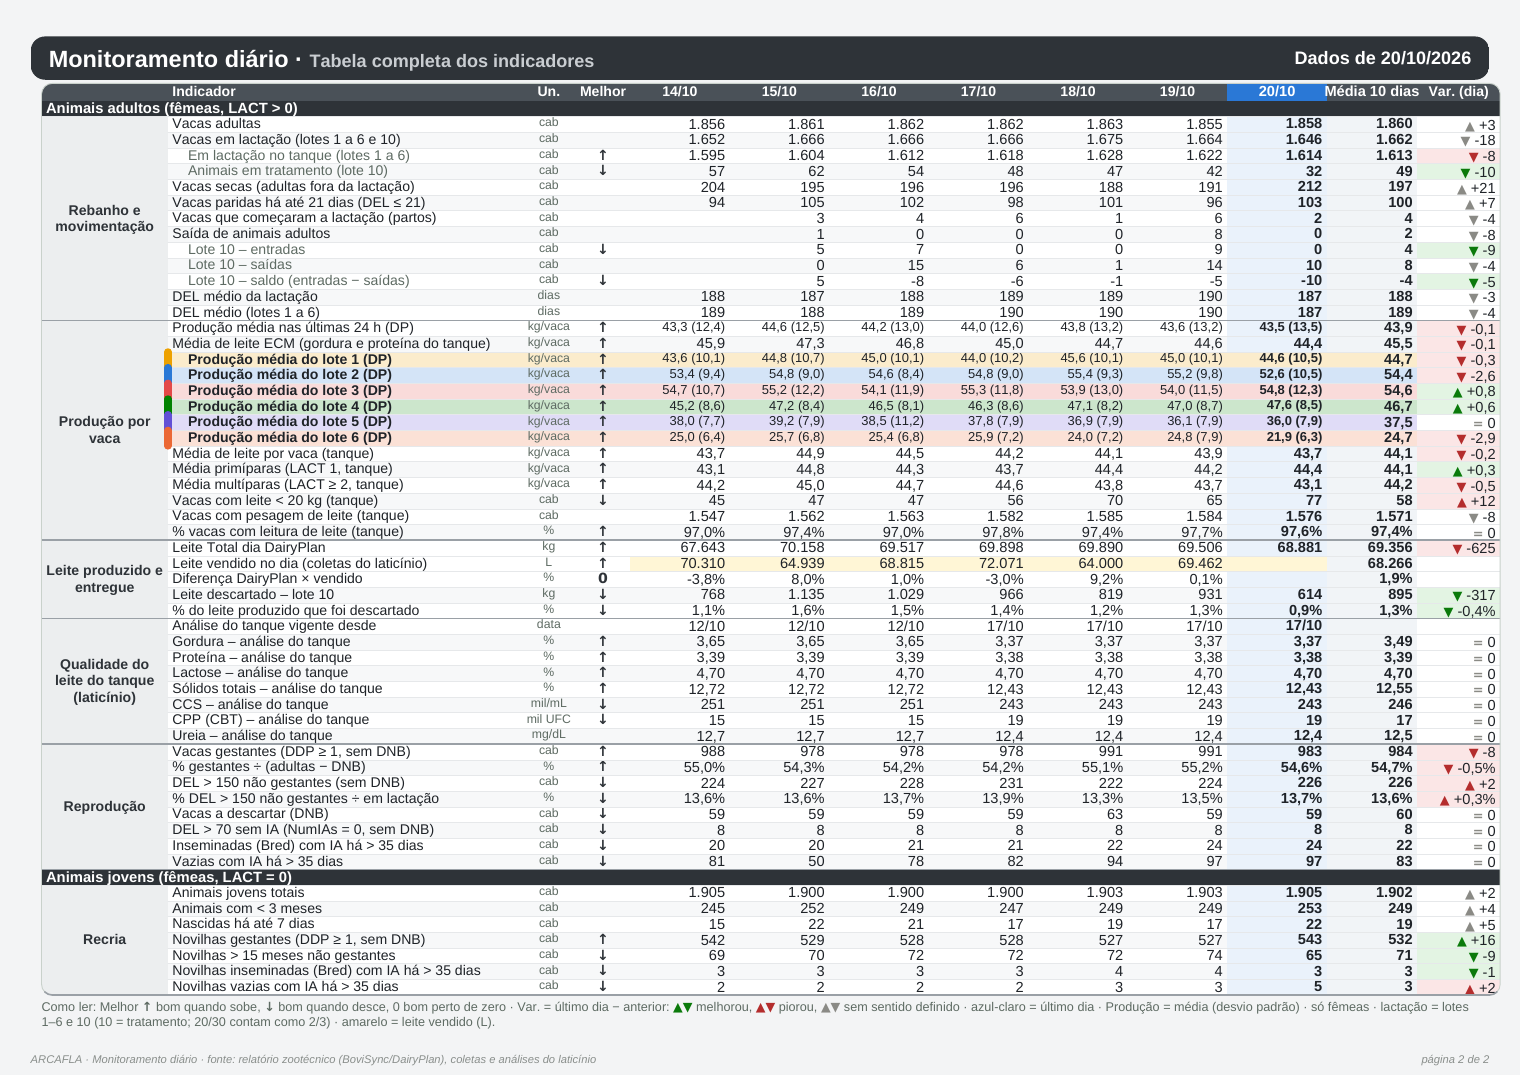
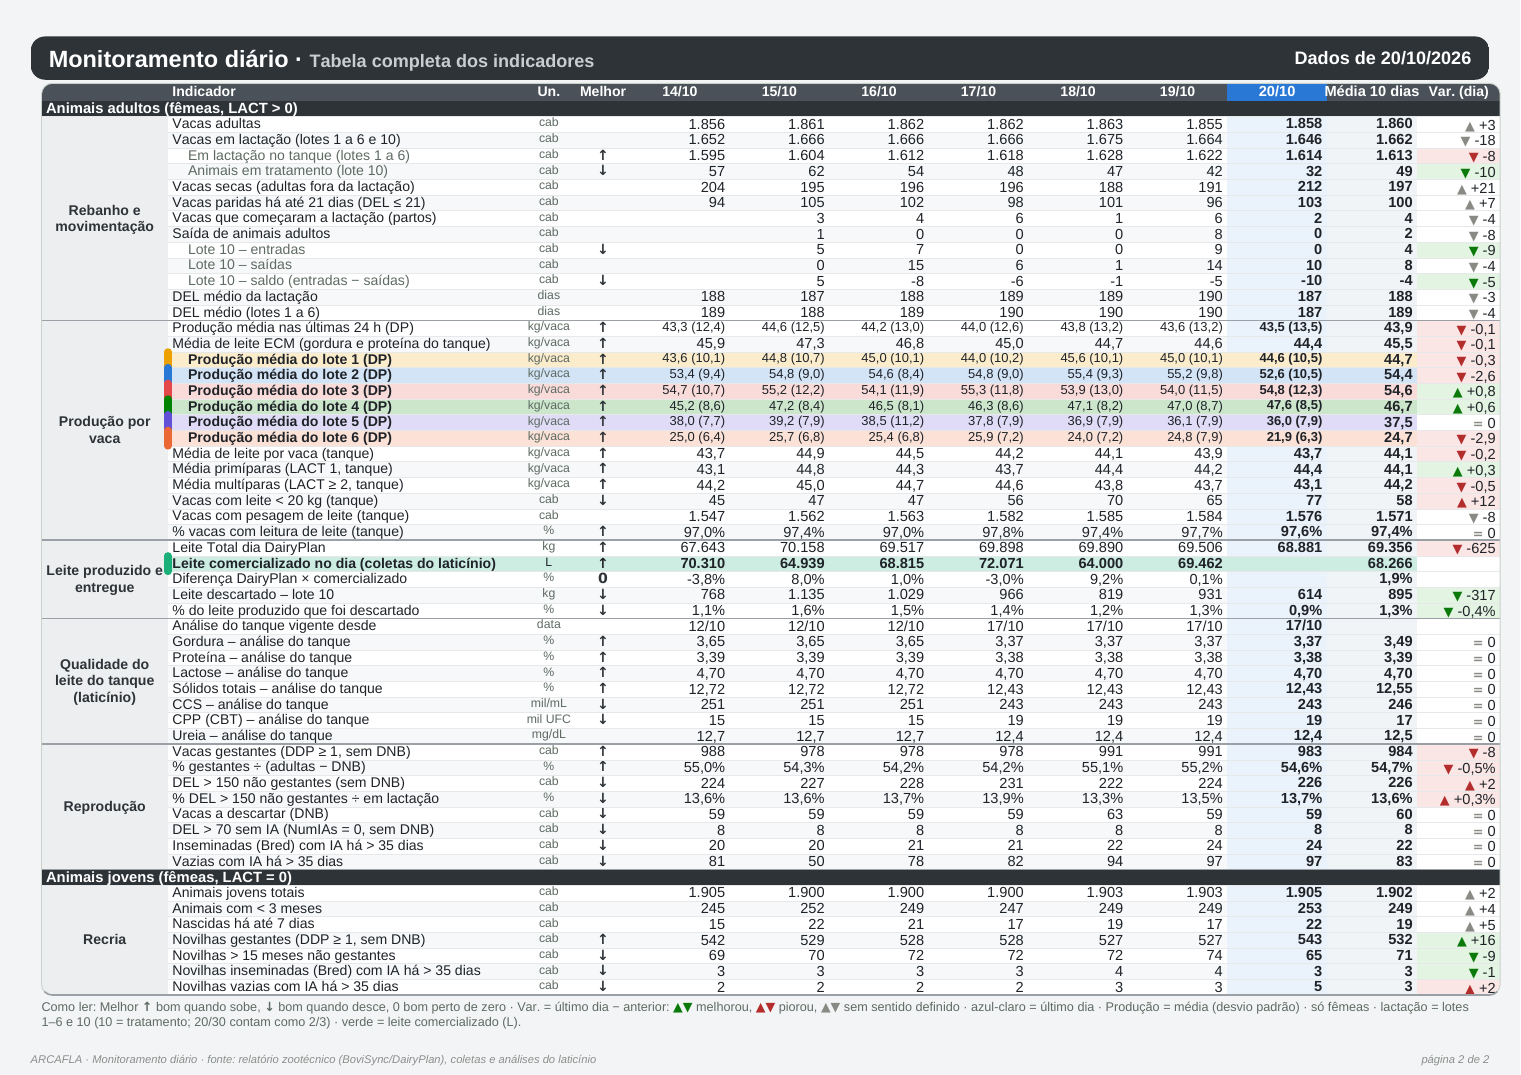
"Vendido" passa a "comercializado"; linha do leite comercializado em destaque na página 2
Claude-Session: https://claude.ai/code/session_01E6SmznsG4fwjxZt5rHRDBH

Changed region(s): [[0.0927, 0.4912, 0.927, 0.5526]]

diff --git a/scripts/monitor_pdf.py b/scripts/monitor_pdf.py
@@ -6,7 +6,7 @@ monitoramento/Monitoramento_Diario_ARCAFLA_AAAA-MM-DD.pdf (data do último dia).
 Página 1 – painel visual:
   cabeçalho; 6 cartões de destaque (valor do dia, seta de melhora/piora, média e minigráfico);
   gráficos: produção por vaca e ECM nos dias exibidos, produção por lote (média e desvio padrão),
-  leite DairyPlan × vendido, vacas com leite < 20 kg, % de gestantes e vazias/não gestantes;
+  leite DairyPlan × comercializado, vacas com leite < 20 kg, % de gestantes e vazias/não gestantes;
   quadro "Atenção hoje" com os indicadores que mais pioraram.
 Página 2 – tabela completa por blocos, coluna "Melhor" (↑/↓/0), variação com seta colorida e
   legenda "Como ler".
@@ -454,7 +454,7 @@ def v_ult(rot, nf):
 
 
 dpl = itens.get("Leite Total dia DairyPlan")
-vdd = itens.get("Leite vendido no dia (coletas do laticínio)")
+vdd = itens.get("Leite comercializado no dia (coletas do laticínio)")
 kv = next((i for i in range(ND - 1, -1, -1) if vdd and vdd["vals"][i] not in (None, "")), None)
 dif_txt = (("", f'{fmt(dpl["vals"][kv], "#,##0")} kg × {fmt(vdd["vals"][kv], "#,##0")} L')
            if kv is not None else ("aguardando coletas", ""))
@@ -465,7 +465,7 @@ cards = [
            ("no tanque:", v_ult("Em lactação no tanque (lotes 1 a 6)", "0")), CW - 7, CH - 2),
     cartao("Produção 24 h (kg/vaca)", "Produção média nas últimas 24 h (DP)",
            ("ECM:", v_ult("Média de leite ECM (gordura e proteína do tanque)", "0.0") + " kg"), CW - 7, CH - 2),
-    cartao("DairyPlan × leite vendido", "Diferença DairyPlan × vendido", dif_txt, CW - 7, CH - 2),
+    cartao("DairyPlan × comercializado", "Diferença DairyPlan × comercializado", dif_txt, CW - 7, CH - 2),
     cartao("Gestantes (sem DNB)", "% gestantes ÷ (adultas − DNB)",
            ("vacas gestantes:", v_ult("Vacas gestantes (DDP ≥ 1, sem DNB)", "0")), CW - 7, CH - 2),
     cartao("Em tratamento (lote 10)", "Animais em tratamento (lote 10)",
@@ -505,14 +505,14 @@ g_lote = caixa(f"Produção por lote em {ultimo:%d/%m}",
                G2W)
 
 G3W = LARG * 0.22 - 6      # gráficos menores da 2ª fileira
-GLW = LARG * 0.34 - 6      # leite DairyPlan × vendido, mais largo (dois conjuntos de valores)
+GLW = LARG * 0.34 - 6      # leite DairyPlan × comercializado, mais largo (dois conjuntos de valores)
 GH2 = 134
-dp_s, vd_s = serie("Leite Total dia DairyPlan"), serie("Leite vendido no dia (coletas do laticínio)")
+dp_s, vd_s = serie("Leite Total dia DairyPlan"), serie("Leite comercializado no dia (coletas do laticínio)")
 dp_s, vd_s = [[v / 1000 if v is not None else None for v in x] for x in (dp_s, vd_s)]  # em mil
-dif = itens.get("Diferença DairyPlan × vendido")
+dif = itens.get("Diferença DairyPlan × comercializado")
 dif_med = fmt(dif["media"], dif["mfmt"]) if dif and dif["media"] not in (None, "") else "–"
-g_leite = caixa("Leite DairyPlan × vendido",
-                legenda_series([("DairyPlan (mil kg)", S1), ("Vendido (mil L)", S3)]) + f" · dif. méd. <b>{dif_med}</b>",
+g_leite = caixa("Leite DairyPlan × comercializado",
+                legenda_series([("DairyPlan (mil kg)", S1), ("Comercializado (mil L)", S3)]) + f" · dif. méd. <b>{dif_med}</b>",
                 grafico_linhas([("dp", dp_s, S1), ("vd", vd_s, S3)], GLW - 10, GH2, "0.0",
                                area="todas", valores=True,
                                faixa=("dif.", [fmt(v, "+0.0%;-0.0%;0.0%", sinal=True) if isinstance(v, (int, float))
@@ -654,6 +654,10 @@ for l in linhas:
         estilo += [("LINEBEFORE", (1, i), (1, i), 4, c_l), ("TEXTCOLOR", (1, i), (1, i), TINTA),
                    ("FONT", (1, i), (1, i), "LibB", FS),
                    ("BACKGROUND", (1, i), (CMED, i), clarear(c_l))]  # linha no tom claro da cor do lote
+    if l["rot"].startswith("Leite comercializado"):  # destaque: verde do gráfico DairyPlan × comercializado
+        estilo += [("LINEBEFORE", (1, i), (1, i), 4, S3), ("BACKGROUND", (1, i), (CMED, i), clarear(S3, 0.78)),
+                   ("FONT", (1, i), (1, i), "LibB", FS), ("TEXTCOLOR", (1, i), (CMED, i), TINTA),
+                   ("FONT", (CDIA0, i), (CMED, i), "LibB", FSN)]
     for k, v in enumerate(l["vals"]):
         if isinstance(v, str):
             estilo.append(("FONTSIZE", (CDIA0 + k, i), (CDIA0 + k, i), FSN - 0.9))
@@ -675,7 +679,7 @@ legenda = Paragraph(
     "<b>0</b> bom perto de zero · Var. = último dia − anterior: <font name='Sym' color='#0B7A0B'>▲▼</font> melhorou, "
     "<font name='Sym' color='#B42D2D'>▲▼</font> piorou, <font name='Sym' color='#8A8A85'>▲▼</font> sem sentido "
     "definido · azul-claro = último dia · Produção = média (desvio padrão) · só fêmeas · lactação = lotes 1–6 e 10 "
-    "(10 = tratamento; 20/30 contam como 2/3) · amarelo = leite vendido (L).", st_leg)
+    "(10 = tratamento; 20/30 contam como 2/3) · verde = leite comercializado (L).", st_leg)
 
 
 # ---------------------------------------------------------------- cabeçalhos e montagem

diff --git a/scripts/monitor_diario.py b/scripts/monitor_diario.py
@@ -441,8 +441,8 @@ GRUPOS = [
         ("% vacas com leitura de leite (tanque)", "%", razao(cont(*COM_LEITE), cont(*TANQUE)), P, "↑"),
         (SUB, "Leite produzido e entregue"),
         ("Leite Total dia DairyPlan", "kg", soma("Leite", *COM_LEITE), "#,##0", "↑"),
-        ("Leite vendido no dia (coletas do laticínio)", "L", vendido_dia, "#,##0", "↑"),
-        ("Diferença DairyPlan × vendido", "%", dif_vendido, "+0.0%;-0.0%;0.0%", "0"),
+        ("Leite comercializado no dia (coletas do laticínio)", "L", vendido_dia, "#,##0", "↑"),
+        ("Diferença DairyPlan × comercializado", "%", dif_vendido, "+0.0%;-0.0%;0.0%", "0"),
         ("Leite descartado – lote 10", "kg", soma("Leite", *DESCARTE), "#,##0", "↓"),
         ("% do leite produzido que foi descartado", "%",
          razao(soma("Leite", *DESCARTE),
@@ -647,11 +647,11 @@ notas = [
     ("Leite ECM", "Produção média nas últimas 24 h × (0,327 + 0,1295 × gordura % + 0,0765 × proteína %), "
                   "com gordura e proteína da análise do tanque (Sjaunja et al., 1990; fatores na aba "
                   "Parâmetros)."),
-    ("Leite vendido", "Valor de entrada (azul/amarelo), em litros, lido de dados/leite_vendido.json. "
+    ("Leite comercializado", "Valor de entrada (azul/amarelo), em litros, lido de dados/leite_vendido.json. "
                       "Vem do \"Demonstrativo das Coletas de Leite\" (scripts/le_leite_vendido.py): soma "
                       "do Volume de todas as coletas com a mesma Data Coleta."),
-    ("Diferença DairyPlan × vendido", "(Leite Total dia DairyPlan − leite vendido) ÷ leite vendido. "
-                                      "Negativo = DairyPlan abaixo do vendido. O DairyPlan está em kg e o "
+    ("Diferença DairyPlan × comercializado", "(Leite Total dia DairyPlan − leite comercializado) ÷ leite comercializado. "
+                                      "Negativo = DairyPlan abaixo do comercializado. O DairyPlan está em kg e o "
                                       "laticínio em litros; não há conversão."),
     ("DNB", "StatRepro = DNB ou Dry DNB. Ficam fora de todos os indicadores de reprodução "
             "(só aparecem na própria contagem de DNB)."),
@@ -685,10 +685,10 @@ notas = [
     ("% leitura de leite", "Vacas do tanque (lotes 1 a 6) com Leite > 0 ÷ vacas em lactação nos lotes 1 a 6."),
     ("Leite Total dia DairyPlan", "Soma da coluna Leite das vacas dos lotes 1 a 6 no relatório do DairyPlan."),
     ("Como ler", "Coluna Melhor: ↑ = bom quando sobe; ↓ = bom quando desce; 0 = bom quando se aproxima de "
-                 "zero (diferença DairyPlan × vendido); vazio = sem sentido definido (ex.: partos)."),
+                 "zero (diferença DairyPlan × comercializado); vazio = sem sentido definido (ex.: partos)."),
     ("Variação", "Último dia menos o dia anterior exibido. Fica verde quando melhorou e vermelha quando "
                  "piorou, de acordo com a coluna Melhor; sem cor quando não há sentido definido. Na diferença "
-                 "DairyPlan × vendido a variação é da distância até zero."),
+                 "DairyPlan × comercializado a variação é da distância até zero."),
 ]
 wn["A1"] = "Notas e definições"
 wn["A1"].font = font(bold=True, size=14, color=AZUL)

diff --git a/scripts/envia_whatsapp.py b/scripts/envia_whatsapp.py
@@ -72,9 +72,9 @@ def resumo():
     if isinstance(g, (int, float)):
         t.append(f"Gestantes: {br(g * 100, 1)}% · Vazias com IA > 35 dias: "
                  f"{br(v('Vazias com IA há > 35 dias') or 0)}")
-    dif = v("Diferença DairyPlan × vendido")
+    dif = v("Diferença DairyPlan × comercializado")
     if isinstance(dif, (int, float)):
-        t.append(f"DairyPlan × leite vendido: {'+' if dif > 0 else ''}{br(dif * 100, 1)}%")
+        t.append(f"DairyPlan × leite comercializado: {'+' if dif > 0 else ''}{br(dif * 100, 1)}%")
     t.append("Relatório completo no PDF anexo.")
     return "\n".join(t)
 

diff --git a/claude/notas_analise_ARKAFLA.md b/claude/notas_analise_ARKAFLA.md
@@ -432,3 +432,9 @@ Este é o modelo oficial do PDF diário. Não mudar o layout sem pedido do usuá
   "Inseminadas com IA > 35 d". A 5791 tem a 1ª IA com 16 DEL: conferir.
 - A diferença DairyPlan × vendido compara kg com L sem conversão (decisão anterior). Com densidade de 1,032, os kg
   viram ~3% menos litros.
+
+### 21/10/2026 – "leite comercializado"
+- Onde aparecia "vendido" agora aparece "comercializado": planilha, PDF (cartão, gráfico, legenda, tabela) e resumo
+  do WhatsApp. Os nomes de arquivos (`dados/leite_vendido.json`, `scripts/le_leite_vendido.py`) não mudaram.
+- Na página 2, a linha "Leite comercializado no dia" ficou em destaque: marca verde à esquerda (o mesmo verde do
+  gráfico), fundo verde-claro na linha toda e números em negrito. Na legenda, "verde = leite comercializado (L)".
